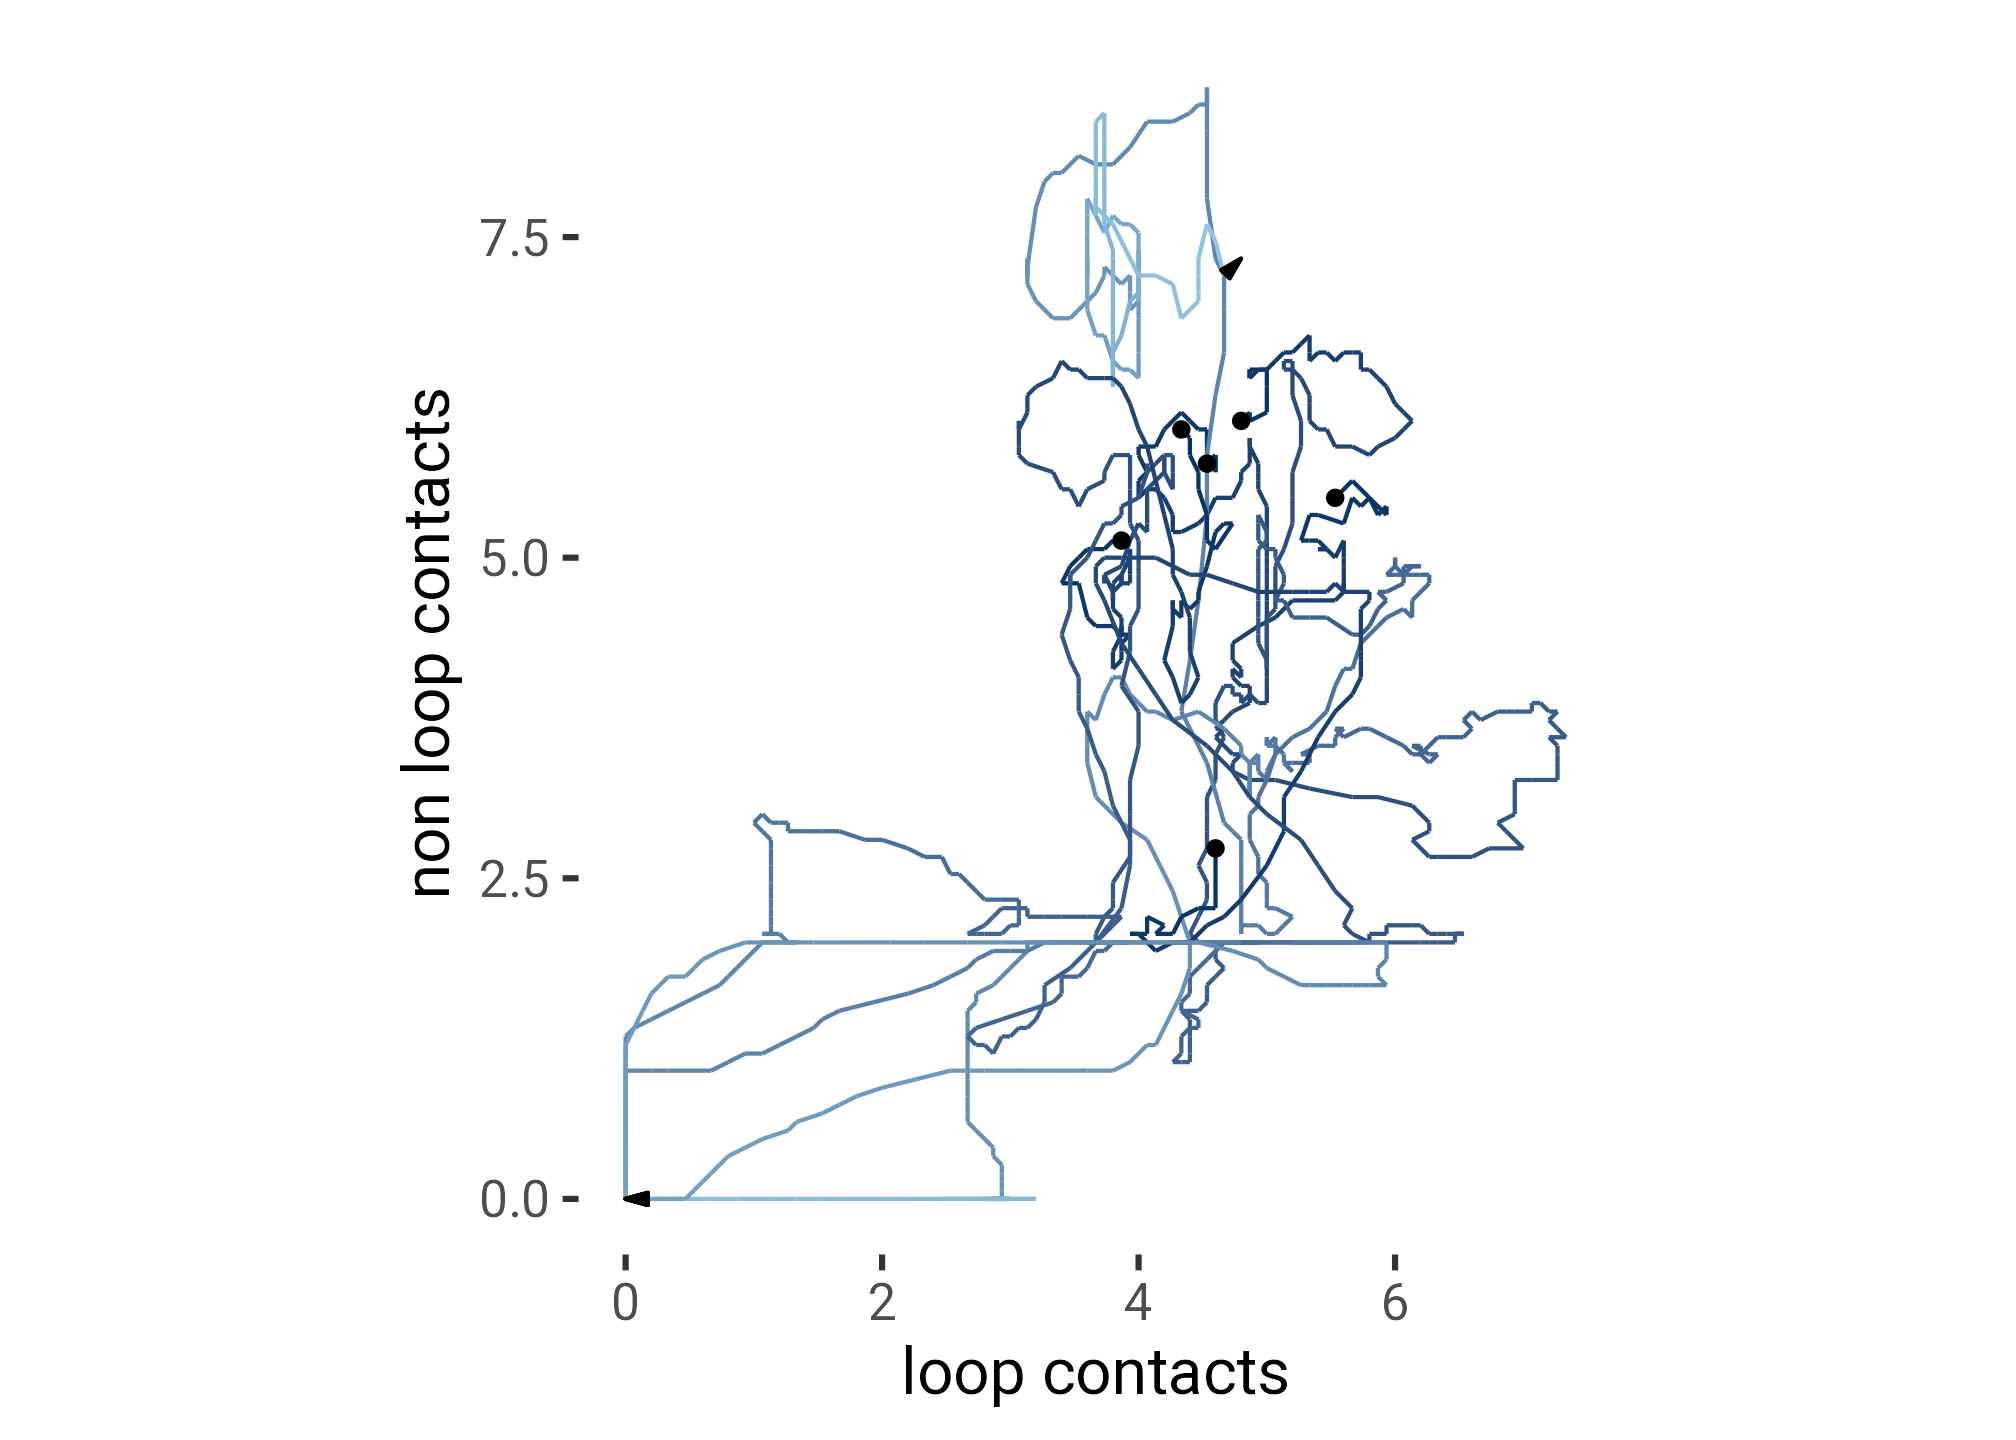
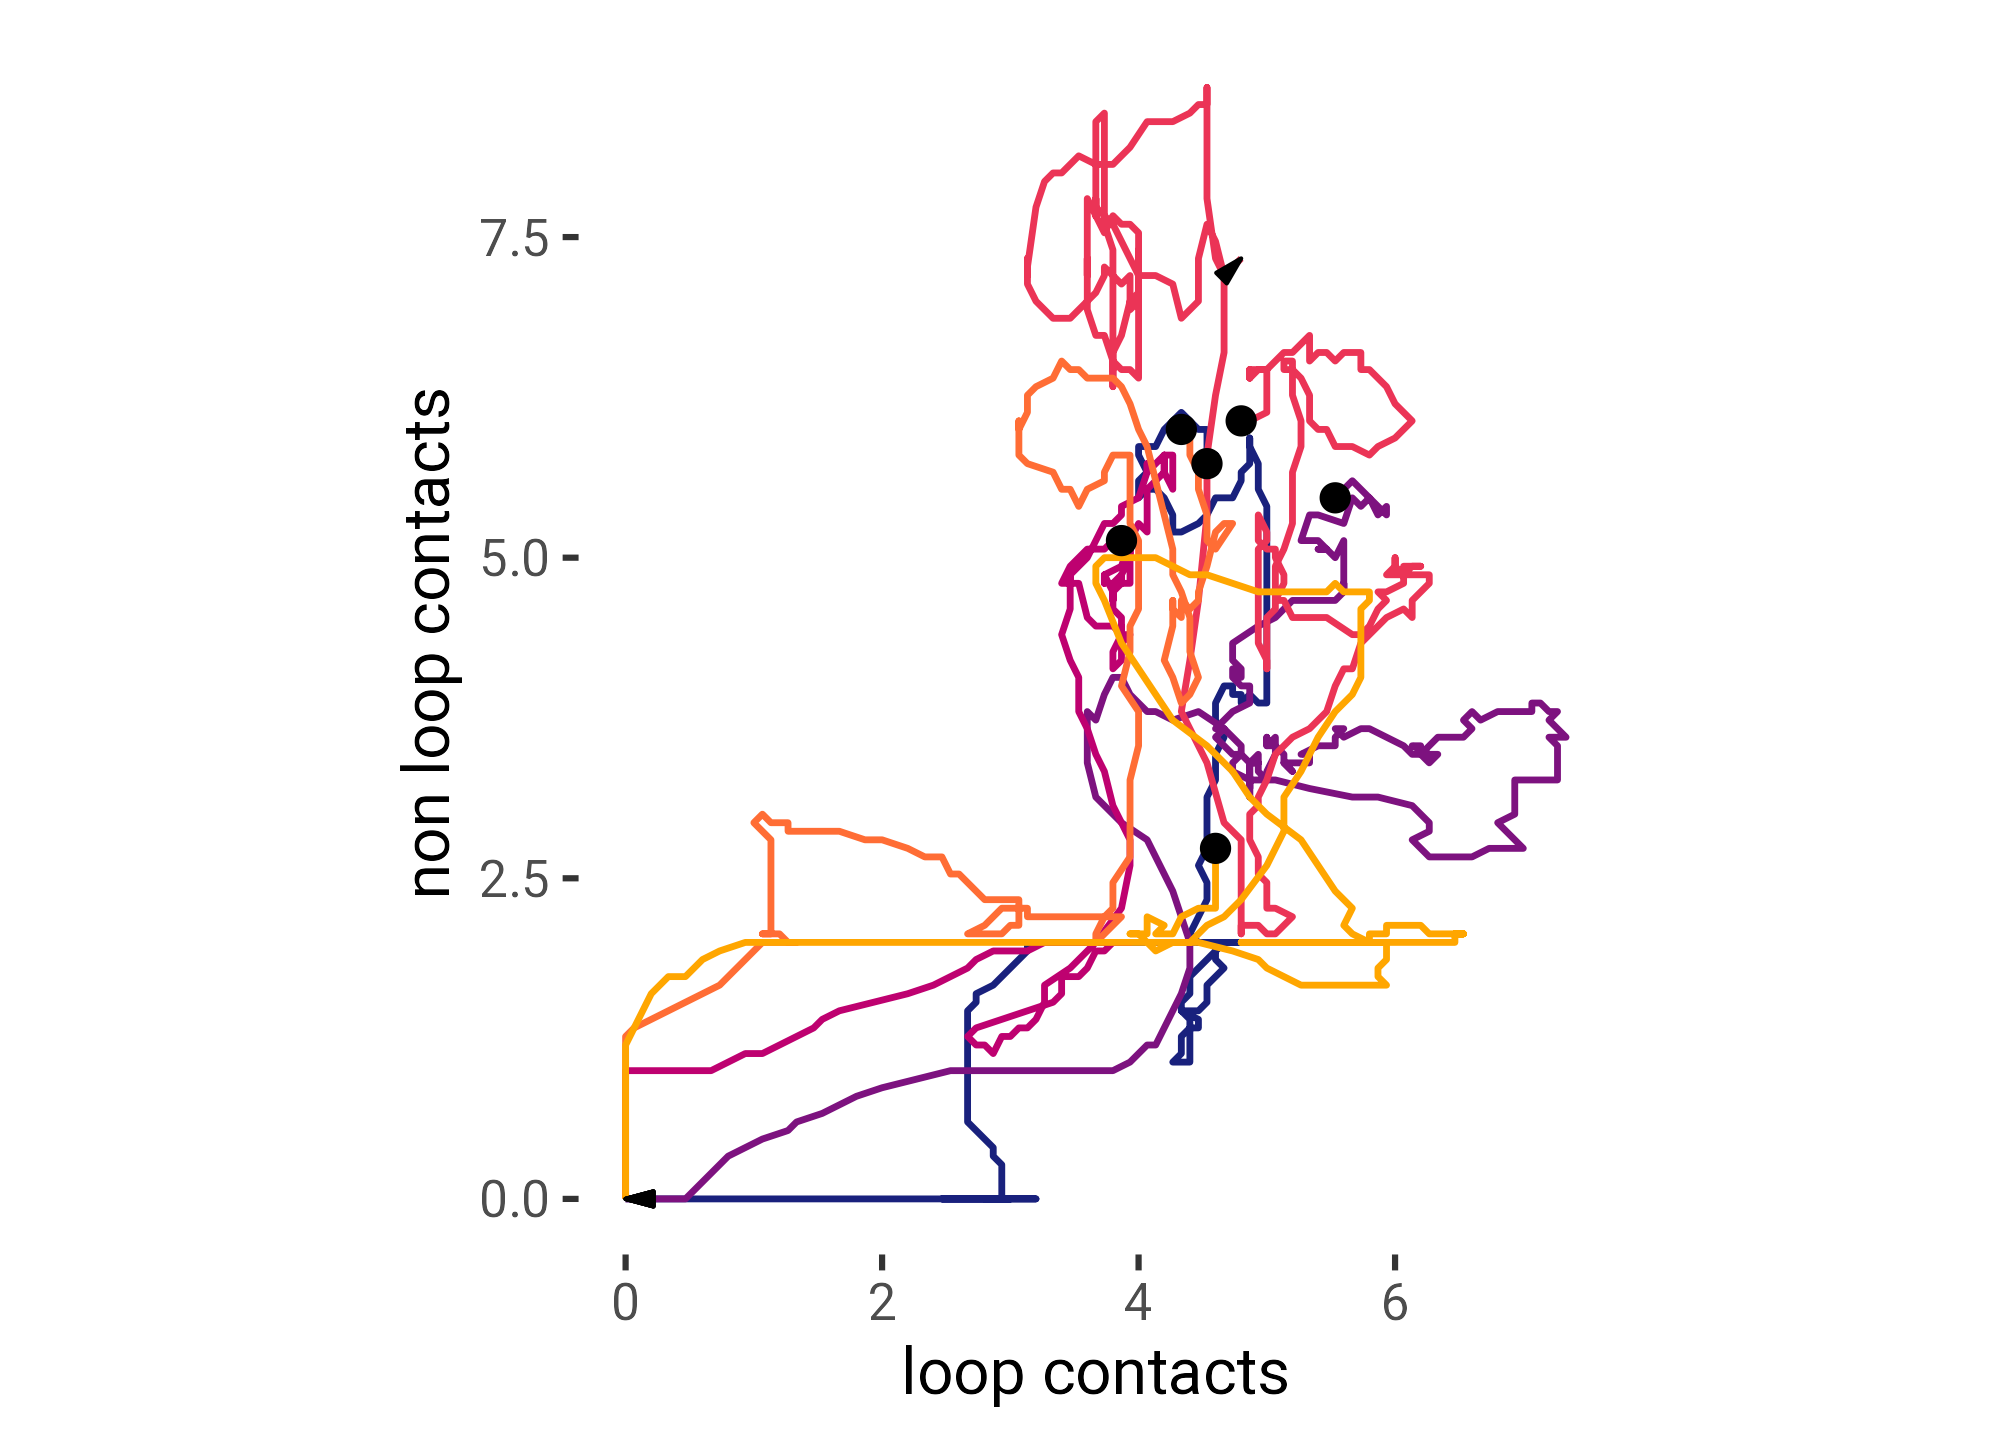
color f0f1 pulling by run

diff --git a/index.html b/index.html
@@ -634,7 +634,7 @@ Tip
 <h3 class="anchored" data-anchor-id="sec-nmr">NMR Ensemble of F1: 2KC2 <span class="citation" data-cites="goultStructureDoubleUbiquitinlike2010">(<a href="#ref-goultStructureDoubleUbiquitinlike2010" role="doc-biblioref">13</a>)</span></h3>
     <div id="app-2KC2" class="molstar-app"></div>
     <script type="text/javascript">
-    molstar.Viewer.create("app-2KC2", {"viewportShowSelectionMode":false,"layoutIsExpanded":false,"pdbProvider":"rcsb","layoutShowControls":false,"viewportShowAnimation":true,"viewportShowExpand":true,"layoutShowSequence":false,"layoutShowLeftPanel":true,"emdbProvider":"rcsb","layoutShowLog":false,"layoutShowRemoteState":false}).then(viewer => {
+    molstar.Viewer.create("app-2KC2", {"layoutShowControls":false,"layoutShowRemoteState":false,"layoutShowLog":false,"layoutShowLeftPanel":true,"layoutShowSequence":false,"emdbProvider":"rcsb","viewportShowExpand":true,"pdbProvider":"rcsb","layoutIsExpanded":false,"viewportShowAnimation":true,"viewportShowSelectionMode":false}).then(viewer => {
     viewer.loadPdb("2KC2");    });
     </script>
     
@@ -643,7 +643,7 @@ Tip
 <h3 class="anchored" data-anchor-id="ensemble-of-last-frames-of-the-f0f1-rotational-sampling">Ensemble of last frames of the F0F1 Rotational Sampling</h3>
     <div id="app-./assets/structures/f0f1-rot-sample-last-frames.gro./assets/structures/f0f1-rot-sample-last-frames.xtc" class="molstar-app"></div>
     <script type="text/javascript">
-    molstar.Viewer.create("app-./assets/structures/f0f1-rot-sample-last-frames.gro./assets/structures/f0f1-rot-sample-last-frames.xtc", {"viewportShowSelectionMode":false,"layoutIsExpanded":false,"pdbProvider":"rcsb","layoutShowControls":false,"viewportShowAnimation":true,"viewportShowExpand":true,"layoutShowSequence":false,"layoutShowLeftPanel":true,"emdbProvider":"rcsb","layoutShowLog":false,"layoutShowRemoteState":false}).then(viewer => {
+    molstar.Viewer.create("app-./assets/structures/f0f1-rot-sample-last-frames.gro./assets/structures/f0f1-rot-sample-last-frames.xtc", {"layoutShowControls":false,"layoutShowRemoteState":false,"layoutShowLog":false,"layoutShowLeftPanel":true,"layoutShowSequence":false,"emdbProvider":"rcsb","viewportShowExpand":true,"pdbProvider":"rcsb","layoutIsExpanded":false,"viewportShowAnimation":true,"viewportShowSelectionMode":false}).then(viewer => {
         viewer.loadTrajectory(
     {
       model: {
@@ -668,7 +668,7 @@ Tip
 <h3 class="anchored" data-anchor-id="sec-ferm-system">FERM domain over a POPC/PIP<sub>2</sub> membrane</h3>
     <div id="app-./www/system-tln-memb.pdb" class="molstar-app"></div>
     <script type="text/javascript">
-    molstar.Viewer.create("app-./www/system-tln-memb.pdb", {"viewportShowSelectionMode":false,"layoutIsExpanded":false,"pdbProvider":"rcsb","layoutShowControls":false,"viewportShowAnimation":true,"viewportShowExpand":true,"layoutShowSequence":false,"layoutShowLeftPanel":true,"emdbProvider":"rcsb","layoutShowLog":false,"layoutShowRemoteState":false}).then(viewer => {
+    molstar.Viewer.create("app-./www/system-tln-memb.pdb", {"layoutShowControls":false,"layoutShowRemoteState":false,"layoutShowLog":false,"layoutShowLeftPanel":true,"layoutShowSequence":false,"emdbProvider":"rcsb","viewportShowExpand":true,"pdbProvider":"rcsb","layoutIsExpanded":false,"viewportShowAnimation":true,"viewportShowSelectionMode":false}).then(viewer => {
     viewer.loadStructureFromUrl("./www/system-tln-memb.pdb", format="pdb");    });
     </script>
     
